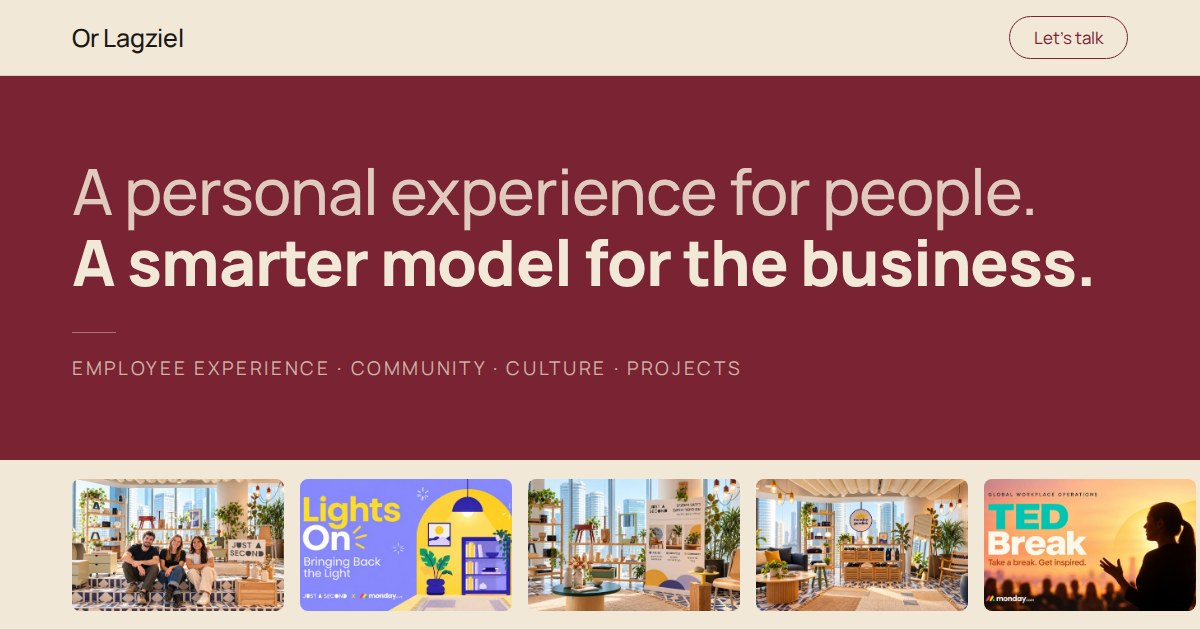
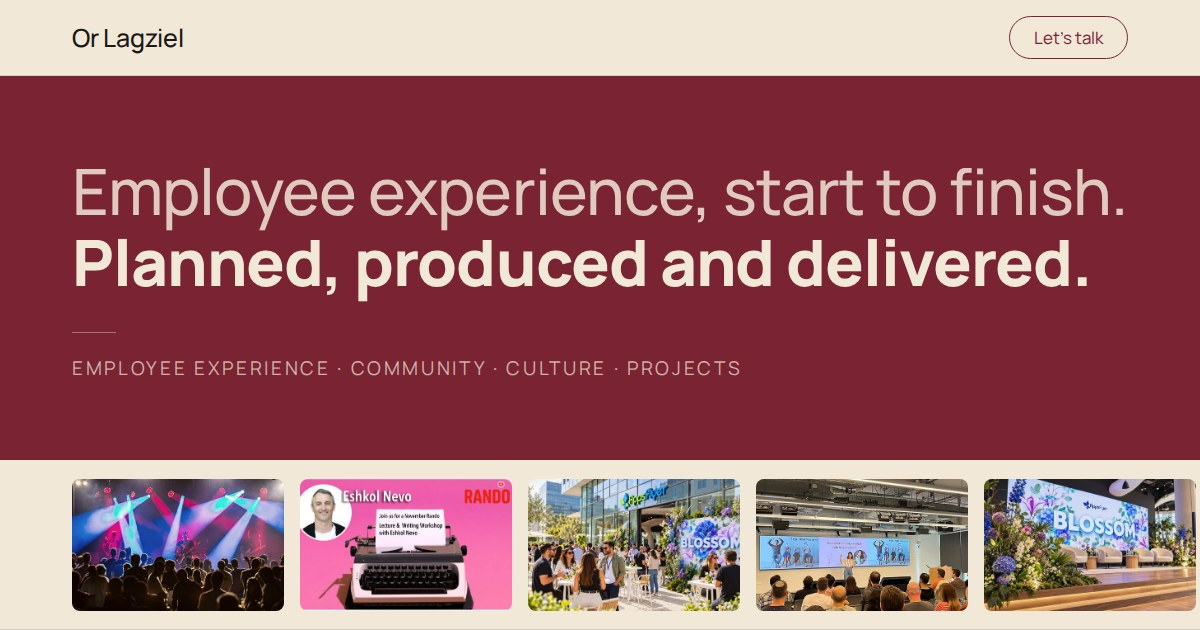
Add files via upload

Changed region(s): [[0.0617, 0.754, 1.0, 0.9952], [0.0617, 0.2714, 0.925, 0.4825]]

diff --git a/app/layout.tsx b/app/layout.tsx
@@ -22,7 +22,7 @@ const heebo = Heebo({
 // alternates so Google shows the right language to each searcher.
 const SHARE_TITLE = "Or Lagziel · People Experience";
 const SHARE_DESCRIPTION =
-  "Flexible Employee Experience services. From focused projects to ongoing support, without the need for another full-time hire.";
+  "Employee experience, start to finish. Planned, produced and delivered. Flexible support for companies that want to do more for their people.";
 
 export const metadata: Metadata = {
   metadataBase: new URL(SITE_URL),
@@ -48,7 +48,7 @@ export const metadata: Metadata = {
         width: 1200,
         height: 630,
         type: "image/jpeg",
-        alt: "Or Lagziel — A personal experience for people. A smarter model for the business.",
+        alt: "Or Lagziel — Employee experience, start to finish. Planned, produced and delivered.",
       },
     ],
   },

diff --git a/lib/site.ts b/lib/site.ts
@@ -4,5 +4,5 @@ export const SITE_URL = "https://brand-landing-flax.vercel.app";
 
 // Social sharing image. If the image is ever replaced, bump the version so
 // WhatsApp/LinkedIn treat it as a new URL instead of showing a cached copy.
-export const OG_IMAGE_VERSION = "1";
+export const OG_IMAGE_VERSION = "2";
 export const OG_IMAGE_URL = `${SITE_URL}/og-image.jpg?v=${OG_IMAGE_VERSION}`;
